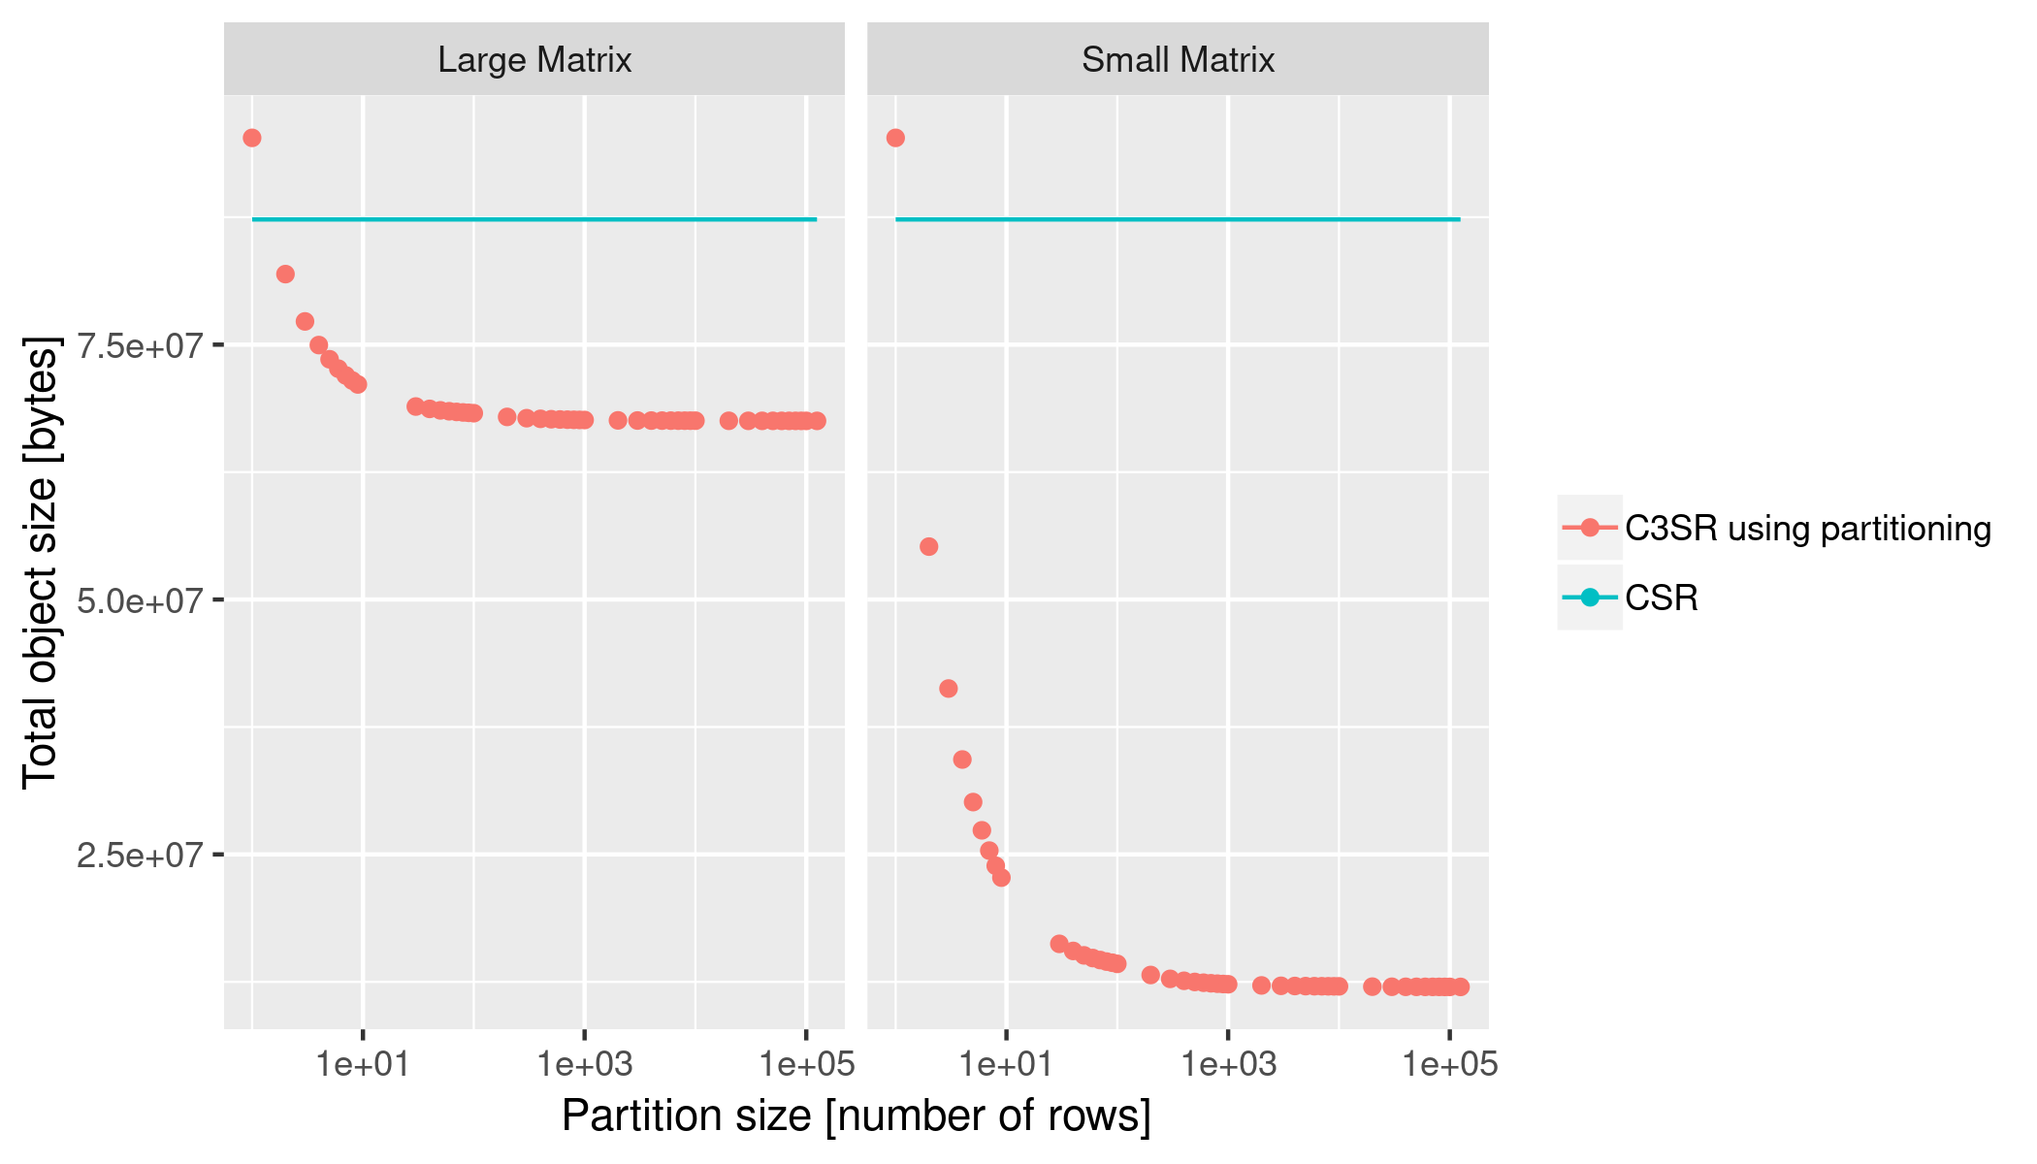
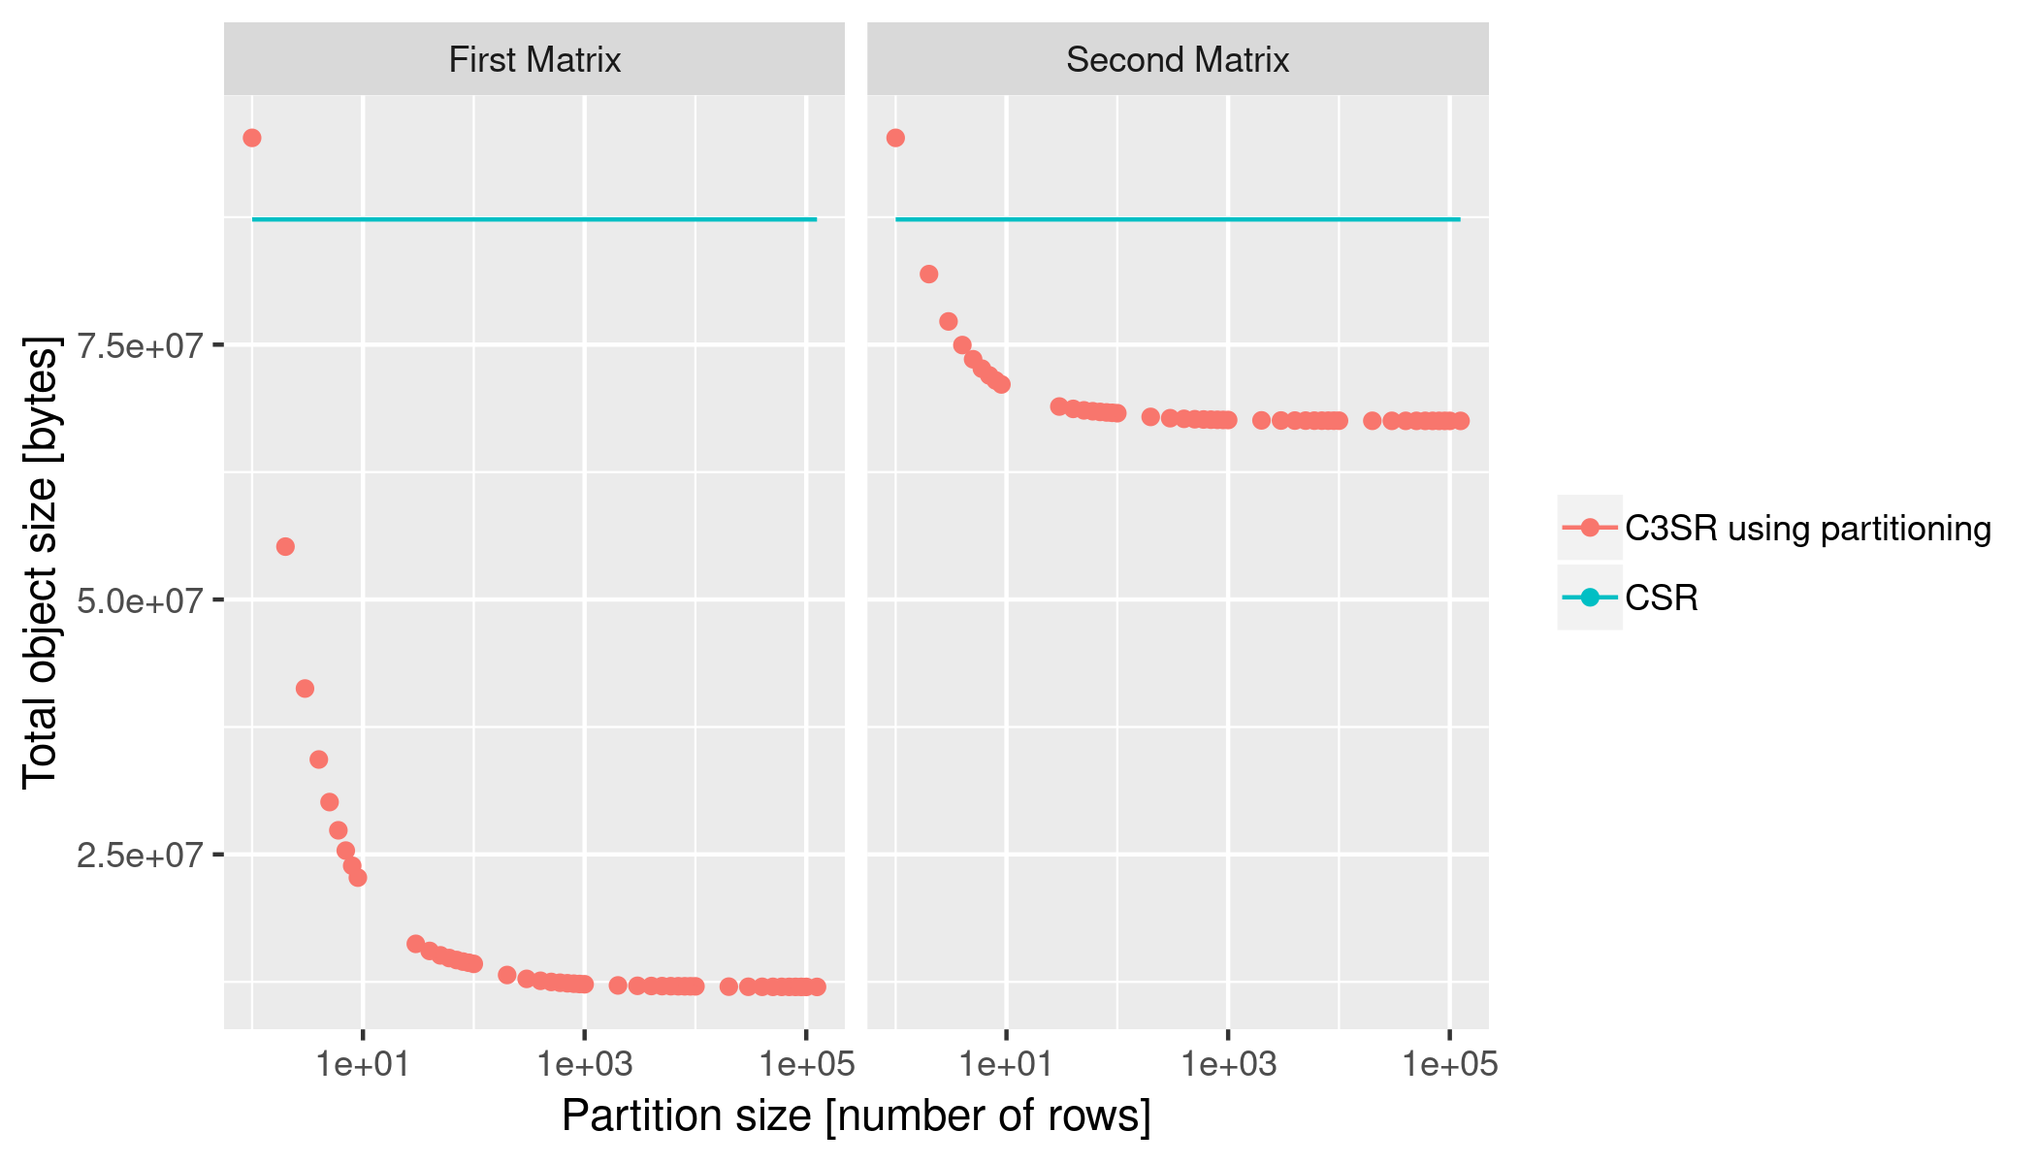
Small/Large matrix -> First/Second matrix

diff --git a/main.tex b/main.tex
@@ -304,7 +304,7 @@
         \label{fig:c3sr_matvecmult_basic}
       \end{figure}
 
-      As the C3SR format utilizes additional arrays to store index-pointers the number of memory accesses increases likewise. Assuming a general case of a large sparse matrix devoid of any regularity in its structure whose size exceeds the machine's cache capacity the CSR format's arithmetic performance will be better proportional to the difference in the object's size as the above schemes yield memory bound computations involving few trivial arithmetic operations.
+      As the C3SR format utilizes additional arrays to store index-pointers the number of memory accesses increases likewise. Assuming a general case of a large sparse matrix devoid of any regularity in its structure whose size exceeds the machine's cache capacity the CSR format's arithmetic performance will be better proportional to the difference in the storage size as the above schemes yield memory bound computations involving few trivial arithmetic operations.
 
       On the flipside, as demonstrated in the previous section sparse banded matrices facilitate very compact storage allowing a small segment of memory, corresponding to possibly only a few cache lines, to contain the matrix's complete structural information and, depending on the underlying physical problem, even the numeric values. This can drastically improve the arithmetic performance of the C3SR format despite the more complex memory access scheme as will be shown in the benchmark section.
 
@@ -318,7 +318,7 @@
 
       As each diagonal's summand accesses the argument vector's elements in consecutive fashion, for example, $x_s, x_{s+1}, \ldots, x_{s + k}$ for the first diagonal, the access to the argument vector's elements can be vectorized. The other summand's constituents, the diagonal's elements, are stored within \V at a fixed stride which is equal to the number of diagonals. This is due to the fact that the matrix slice's non-zero elements are stored row-by-row while each row has the same number of elements. Thus, for the general case when the rows' values don't match, $a_{r, s}$ is located as many elements before $a_{r+1, s+1}$ within \V as there are diagonals.
 
-      In SIMD terms a stride-gather and a load are required for the diagonal's elements and the argument vector, respectively. The two vector registers are then multiplied and the result is then added onto the next product pertaining to the subsequent diagonal. After the final vectorized addition the result is written into the output buffer using a vectorized load.
+      In SIMD terms a stride-gather and a load are required for the diagonal's elements and the argument vector, respectively. The two vector registers are then multiplied and the result is then added onto the next product pertaining to the subsequent diagonal. After the final vectorized addition the result is written into the output buffer using a vectorized store.
 
       \begin{figure}[ht]
         \centering
@@ -368,7 +368,7 @@
 
       \paragraph{SIMD Scheme II: Diagonal structure and identical values}
 
-      For the case of a matrix slice whose structure is diagonal and whose rows share the same values, which equates to all values within a diagonal being identical, e.g. $a_{r,s} = a_{r+1, s+1} = \ldots$ for the first diagonal, the previous multiplication scheme is simplified in that the argument vector's values contained in the vector register are simply scaled by the diagonal's value instead of being subjected to a vectorized multiplication (Figure \ref{fig:simd_scheme_diag_collated}).
+      For the case of a matrix slice whose structure is diagonal and whose rows share the same values, which equates to all values within a diagonal being identical, e.g. $a_{r,s} = a_{r+1, s+1} = \ldots$ for the first diagonal, the previous multiplication scheme is simplified in that the argument vector's values contained in the vector register are simply scaled by the diagonal's value instead of being subjected to a vectorized multiplication (Figure \ref{fig:simd_scheme_diag_collated}). Thus, in contrast to the previous multiplication scheme no SIMD gather is required to compute a matrix-vector product resulting in faster execution times.
 
       \begin{figure}[ht]
         \centering
@@ -412,7 +412,7 @@
 
       \paragraph{SIMD Scheme III: Uniform structure}
 
-      The third practically relevant case which arises from solving PDEs on multiple coupled entities is matrix slices whose structure is uniform, i.e. each row's non-zero elements are located within the same columns in the matrix slice. This leads to the circumstance that the argument vector's element required for the partial sum involving a matrix column is constant for the whole column (see Figure \ref{fig:simd_scheme_uniform}). Thus the argument vector's elements serve as scaling constants for the vector register containing the matrix's elements, which are again spread at a fixed stride throughout \V. Note that for sparse banded matrices the values necessarily differ between rows as the matrix would be singular otherwise. Thus, in practice, the matrix-vector multiplication does not collapse to scalar multiplication.
+      The third practically relevant case which arises from solving PDEs on multiple coupled entities is matrix slices whose structure is uniform, i.e. each row's non-zero elements are located within the same columns in the matrix slice. This leads to the circumstance that the argument vector's element required for the partial sum involving a matrix column is constant for the whole column (see Figure \ref{fig:simd_scheme_uniform}). Thus the argument vector's elements serve as scaling constants for the vector register containing the matrix's elements, which are again spread at a fixed stride throughout \V. Note that for sparse banded matrices derived from structured grids the values usually differ between rows as the matrix would be singular otherwise. Thus, in practice, the matrix-vector multiplication does not collapse to scalar multiplication.
 
       \begin{figure}[ht]
         \centering
@@ -470,14 +470,14 @@
 
     Note that $n_d = 0 \Leftrightarrow \partial_d W(\vec{r}) \equiv 0$, introducing a periodicity in the corresponding dimension $d$. This feature is utilized to control the periodicity in the matrix's values.
 
-    For the purpose of this work two different sets of parameters are utilized generating two different matrices: A smaller matrix generated from a $100 \times 100 \times 100$ grid with the periodicities $n_x = n_y = n_z = 0$ and a second, larger matrix based on the same grid but different periodicities $n_x = 1.1; n_y = 1.2; n_z = 1.3$. Both matrices are generated from a symmetric 7p-stencil operation. The matrices' structures are their grid's equivalent to the example shown in Figure \ref{fig:laplacian-example}.
+    For the purpose of this work two different sets of parameters are utilized generating two different matrices: A smaller matrix generated from a $100 \times 100 \times 100$ grid with the periodicities $n_x = n_y = n_z = 0$ and a second matrix based on the same grid but different periodicities $n_x = 1.1; n_y = 1.2; n_z = 1.3$. Both matrices are generated from a symmetric 7p-stencil operation. The matrices' structures are their grid's equivalent to the example shown in Figure \ref{fig:laplacian-example}.
 
-    The first, smaller matrix's values are identical for all rows whose pattern is the same such that \V and \J contain the same number of elements. The second, larger matrix's rows' values are all unique and thus \V contains approximately $7 \cdot 100^3$ elements (Figure \ref{fig:matrix_stats}).
+    The first matrix's values are identical for all rows whose pattern is the same such that \V and \J contain the same small number of elements. The second matrix's rows' values are all unique and thus \V contains approximately $7 \cdot 100^3$ elements (Figure \ref{fig:matrix_stats}).
 
     \begin{figure}[ht]
       \centering
       \begin{tabular}{ l | c c }
-          Array & Small Matrix & Large Matrix        \\
+          Array & First Matrix & Second Matrix       \\
         \hline                                       \\
         \V         & $135$          & $6940000$      \\
         \VS        & $1000000$      & $1000000$      \\
@@ -493,7 +493,7 @@
       \label{fig:matrix_stats}
     \end{figure}
 
-    Note that the two matrices share the same structure and thus their only difference is found in \V and \VS. Concerning the vectorized matrix-vector multiplication scheme the small matrix primarily utilizes the scheme II (Figure \ref{fig:simd_scheme_diag_collated}) while the larger matrix mainly relies on scheme I (Figure \ref{fig:simd_scheme_diag}). The matrices are generated using the asc::matrixgen C++ library\footnote{https://mp-force.ziti.uni-heidelberg.de/asc/AscMatrixGen}.
+    Note that the two matrices share the same structure and thus their only difference is found in \V and \VS. Concerning the vectorized matrix-vector multiplication scheme the first matrix primarily utilizes scheme II (Figure \ref{fig:simd_scheme_diag_collated}) while the second matrix mainly relies on scheme I (Figure \ref{fig:simd_scheme_diag}). The matrices are generated using the asc::matrixgen C++ library\footnote{https://mp-force.ziti.uni-heidelberg.de/asc/AscMatrixGen}.
 
   \subsection{Performance of CSR-like Matrix-Vector Multiplication}
 
@@ -506,7 +506,7 @@
       \label{fig:baseline_arithmetic_performance}
     \end{figure}
 
-    By design of the C3SR format, it outperforms the CSR format in the order of magnitude of around $50\%$ irrespective of the machine. This is due to the reduction in the size of the representation of the matrices and the consequent improvement in data locality as the C3SR format's arithmetic is slightly more complex as discussed in \ref{subsubsec:basic-csr-like-multiplication-scheme}. Accordingly, the performance improvement is more pronounced for the smaller matrix entailing speed-up factors of approximately 2, 13, and 3.
+    By design of the C3SR format, it outperforms the CSR format in the order of magnitude of around $50\%$ irrespective of the machine. This is due to the reduction in the size of the representation of the matrices and the consequent improvement in data locality as the C3SR format's arithmetic is slightly more complex as discussed in \ref{subsubsec:basic-csr-like-multiplication-scheme}. Accordingly, the performance improvement is more pronounced for the first matrix, whose storage size is smaller, entailing speed-up factors of approximately 2, 13, and 3.
 
     Despite the clear performance benefits the above results have to be qualified further as the implementation of the C3SR format\footnote{https://mp-force.ziti.uni-heidelberg.de/shuell/c3srmatrix} uses a NUMA-aware memory allocation scheme for its data arrays, correctly distributing them across physical memory, suitable for the multi-socket systems utilized for the benchmarks. Conversely, the Eigen C++ library, a general purpose linear algebra, and numerics framework, does not tailor its data fields' memory layout in such a way that might lead to performance penalties due to a data distribution inadequate for the access patterns of the multi-threaded arithmetic. Additionally, Eigen internally uses the multi-threading framework OpenMP \cite{openmp:website} which entails a dynamic overhead not present in the implementation of the C3SR format.
 
@@ -521,22 +521,22 @@
       \label{fig:arithmetic-performance}
     \end{figure}
 
-    Sparse matrix-vector multiplication is a memory-bound computation so that the efficacy of a vectorized arithmetic implementation depends very strongly on the amount of data that is required to be read from memory and whether the dynamic overhead involved in determining the applicable SIMD scheme is compensated by a speed-up in arithmetic. This fact is reflected in the measurements as for the large matrix the SIMD implementation is generally slower than the baseline implementation. Only for the small matrix a significant speed-up can be observed on every machine. However, this might be partly due to the fact that the large matrix's SIMD multiplication scheme is less performant as it involves stridden loads from memory which might equate to regular gather operations on the hardware used for this benchmark (see \ref{subsubsec:vectorized-simd-multiplication-scheme}).
+    Sparse matrix-vector multiplication is a memory-bound computation so that the efficacy of a vectorized arithmetic implementation depends very strongly on the amount of data that is required to be read from memory and whether the dynamic overhead involved in determining the applicable SIMD scheme is compensated by a speed-up in arithmetic. This fact is reflected in the measurements as for the second matrix the SIMD implementation is generally slower than the baseline implementation. Only for the first matrix a significant speed-up can be observed on every machine. However, this might be partly due to the fact that the second matrix's SIMD multiplication scheme is less performant as it involves strided loads from memory which might equate to regular gather operations on the hardware used for this benchmark (see \ref{subsubsec:vectorized-simd-multiplication-scheme}).
 
   \subsection{Further Considerations}
 
-    By evidence of the performance benchmarks presented in the previous section the basis for the performance gain in the arithmetic of the C3SR format with respect to the CSR format for sparse banded matrices is the reduction of the matrix's total object size in memory leading to big improvements in data locality during matrix-vector multiplication.
+    By evidence of the performance benchmarks presented in the previous section the basis for the performance gain in the arithmetic of the C3SR format with respect to the CSR format for sparse banded matrices is the reduction of the matrix's total storage size in memory leading to big improvements in data locality during matrix-vector multiplication.
 
-    The C3SR format's storage scheme is tailored to minimize the matrix object's size in memory. However, depending on how the matrix object is created in memory, adhering to the storage scheme to its full extent may not be optimal as it might limit parallelism during object construction. The data arrays' contents are strongly coupled such that the workload cannot be trivially spread across multiple threads. Instead, it might be advisable to partition the matrix into equally sized slices whose independent C3SR objects can be created in parallel. Finally, these distinct C3SR objects corresponding to the matrix slices are then transformed into a singular object by concatenating the data arrays requiring that the index-pointer arrays are offset by the number of rows preceding their first matrix row.
+    The C3SR format's storage scheme is tailored to minimize the matrix' storage size in memory. However, depending on how the matrix object is created in memory, adhering to the storage scheme to its full extent may not be optimal as it might limit parallelism during object construction. The data arrays' contents are strongly coupled such that the workload cannot be trivially spread across multiple threads. Instead, it might be advisable to partition the matrix into equally sized slices whose independent C3SR objects can be created in parallel. Finally, these distinct C3SR objects corresponding to the matrix slices are then transformed into a singular object by concatenating the data arrays requiring that the index-pointer arrays are offset by the number of rows preceding their first matrix row.
 
-    In order to establish an estimate for an apt partition size Figure \ref{fig:structured_grid_matrix_heap_size} displays the total object size depending on the partition size for the two matrices used for the performance benchmarks. It is evident that there exists a point of diminishing returns past whose partition size there is no significant gain in object size reduction. This point is reached when the sizes of \V and \J, the two arrays responsible for the reduction in object size for the C3SR format, fall significantly below the fixed sizes of the remaining arrays, which constitute a minimum to the object size.
+    In order to establish an estimate for an apt partition size Figure \ref{fig:structured_grid_matrix_heap_size} displays the total storage size depending on the partition size for the two matrices used for the performance benchmarks. It is evident that there exists a point of diminishing returns past whose partition size there is no significant gain in storage size reduction. This point is reached when the sizes of \V and \J, the two arrays responsible for the reduction in storage size for the C3SR format, fall significantly below the fixed sizes of the remaining arrays, which constitute a minimum to the storage size.
 
-    Thus, the performance benefits of the C3SR format may be kept even when trading larger object sizes in favor of the parallelizability of the application.
+    Thus, the performance benefits of the C3SR format may be kept even when trading larger storage sizes in favor of the parallelizability of the application.
 
     \begin{figure}[ht]
       \centering
       \includegraphics[width=0.9\textwidth]{assets/structured_grid_matrix_heap_size}
-      \caption[C3SR matrix object size depending on partition size]{\textbf{C3SR matrix object size depending on partition size.} Numeric values are stored using double precision floating-point numbers while all other arrays utilize 32 bit integers. A point of diminishing returns is reached at a partition size of around 1000, past which the object's total size in memory does not shrink significantly. Thus, creating C3SR objects using partition sizes of 1000 and larger may yield a similar performance while speeding up the creation of the object. For comparison the corresponding CSR format's object size is provided.}
+      \caption[C3SR matrix storage size depending on partition size]{\textbf{C3SR matrix storage size depending on partition size.} Numeric values are stored using double precision floating-point numbers while all other arrays utilize 32 bit integers. A point of diminishing returns is reached at a partition size of around 1000, past which the storage size in memory does not shrink significantly. Thus, creating C3SR objects using partition sizes of 1000 and larger may yield a similar performance while speeding up the creation of the object. For comparison the corresponding CSR format's storage size is provided.}
       \label{fig:structured_grid_matrix_heap_size}
     \end{figure}
 
@@ -544,7 +544,7 @@
 
   This report introduces the threefold compressed sparse row matrix storage format (C3SR) which has been designed to adapt the CSR format to improve the performance of matrix-vector multiplication for sparse banded matrices derived from structured grids. Significant performance benefits have been demonstrated for two different sparse banded matrices based on a $100 \times 100 \times 100$ grid utilizing the basic CSR-like matrix-vector multiplication scheme of the C3SR format.
 
-  A vectorized arithmetic scheme could only be shown to provide performance improvements for the matrix whose object in memory is significantly smaller implying that the matrix-vector multiplication is bound by the system's memory bandwidth. Thus, for the machines utilized for this work, the applicability of vectorization for the arithmetic depends strongly on the sparse banded matrix in question. For some systems, it showed worse performance than the baseline CSR-like implementation.
+  A vectorized arithmetic scheme could only be shown to provide performance improvements for the matrix whose storage size in memory is significantly smaller implying that the matrix-vector multiplication is bound by the system's memory bandwidth. Thus, for the machines utilized for this work, the applicability of vectorization for the arithmetic depends strongly on the sparse banded matrix in question. For some systems, it showed worse performance than the baseline CSR-like implementation.
 
   \subsection{Future Work}
 
